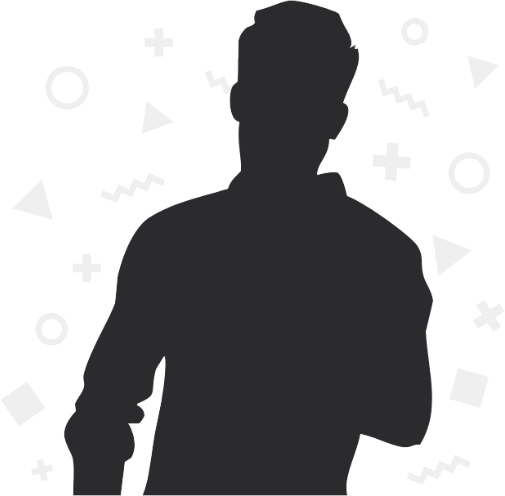
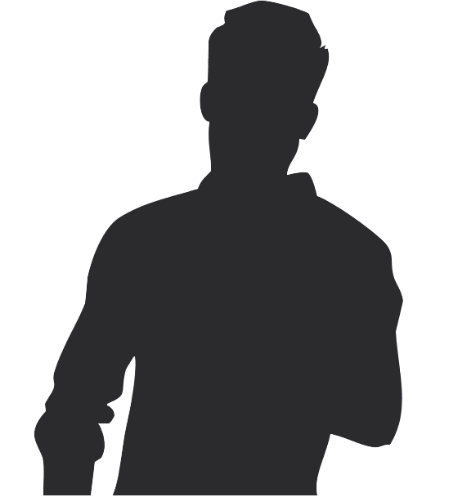
update intro

diff --git a/css/style.css b/css/style.css
@@ -104,6 +104,7 @@ h6 {
   padding-top: 100px;
   padding-bottom: 120px;
   position: relative;
+  background: url(../images/symbols.png) right bottom no-repeat;
 }
 .intro__content {
   width: 50%;
@@ -127,7 +128,7 @@ h6 {
 .intro__photo {
   position: absolute;
   right: 0;
-  top: 0;
+  bottom: 0;
   z-index: 1;
 }
 .social {
@@ -176,4 +177,4 @@ h6 {
   margin-left: 1rem;
 }
 
[2 lines of base64/hex data omitted]

diff --git a/css/blocks/nav.less b/css/blocks/nav.less
@@ -1,0 +1,55 @@
+// main: ../style.less
+
+.nav {
+    display: flex;
+    align-items: center;
+    height: 100%;
+}
+
+.nav__link {
+    margin-left: 2rem;
+    position: relative;
+
+    font-size: 0.93rem;
+    color: @black;
+    text-transform: uppercase;
+    font-weight: 700;
+    text-decoration: none;
+
+    &:after {
+        content: "";
+        width: 0;
+        height: 2px;
+        background-color: @black;
+
+        position: absolute;
+        bottom: -5px;
+        left: 0;
+        z-index: 1;
+
+        transition: width .2s linear;
+    }
+
+    &:hover:not(.nav__link--btn) {
+
+        &:after {
+            width: 100%;
+        }
+    }
+
+
+    /* Modificators */
+    &--btn {
+        padding: 0.66rem 2rem;
+
+        border: 2px solid @black;
+        border-radius: 20px;
+
+        transition: background-color .2s linear, color .2s linear;
+
+        &:hover {
+            background-color: @black;
+            color: @white;
+        }
+    }
+}

diff --git a/css/blocks/btn.less b/css/blocks/btn.less
@@ -1,0 +1,37 @@
+// main: ../style.less
+
+.btn {
+    display: inline-block;
+    vertical-align: top;
+    padding: 1.1rem 1.8rem;
+    min-width: 170px;
+
+    border: 1px solid @gray;
+    border-radius: 30px;
+    background: none;
+    cursor: pointer;
+
+    font-family: inherit;
+    font-size: 1.06rem;
+    line-height: 1.1;
+    color: @black;
+    text-transform: uppercase;
+    text-decoration: none;
+    text-align: center;
+
+    transition: background-color .2s linear, color .2s linear, box-shadow .2s linear;
+
+    &:focus {
+        outline: none;
+    }
+
+    &:hover {
+        background-color: @black;
+        box-shadow: 2px 2px 10px fade(#000, 24%);
+        color: @white;
+    }
+
+    + .btn {
+        margin-left: 1rem;
+    }
+}

diff --git a/css/blocks/intro.less b/css/blocks/intro.less
@@ -1,0 +1,43 @@
+// main: ../style.less
+
+.intro__inner {
+    display: flex;
+    padding-top: 100px;
+    padding-bottom: 120px;
+    position: relative;
+
+    background: url("../images/symbols.png") right bottom no-repeat;
+    border-bottom: 1px solid fade(@gray, 30%);
+}
+
+.intro__content {
+    width: 50%;
+}
+
+.intro__subtitle {
+    font-size: 2.13rem;
+    color: @black;
+    font-weight: 200;
+}
+
+.intro__title {
+    margin-bottom: 5px;
+
+    font-size: 3rem;
+    color: @black;
+    font-weight: 700;
+}
+
+.intro__text {
+    margin-bottom: 25px;
+
+    font-size: 1.2rem;
+    color: fade(@black, 70%);
+}
+
+.intro__photo {
+    position: absolute;
+    bottom: -1px;
+    right: 0;
+    z-index: 1;
+}

diff --git a/css/style.less b/css/style.less
@@ -1,0 +1,32 @@
+// compress: true
+@import "vars";
+
+html {
+   font-size: 15px;
+}
+
+body {
+    margin: 0;
+    font-family: 'Montserrat', sans-serif;
+    font-size: 1rem;
+    color: @black;
+}
+
+h1, h2, h3, h4, h5, h6 {
+    margin: 0;
+}
+
+*,
+*:before,
+*:after {
+    box-sizing: border-box;
+}
+
+/* Block */
+@import "blocks/container";
+@import "blocks/header";
+@import "blocks/user";
+@import "blocks/nav";
+@import "blocks/intro";
+@import "blocks/social";
+@import "blocks/btn";

diff --git a/css/blocks/user.less b/css/blocks/user.less
@@ -1,0 +1,32 @@
+// main: ../style.less
+
+.user {
+    display: flex;
+}
+
+.user__avatar {
+    width: 57px;
+    height: 57px;
+
+    img {
+        border-radius: 50%;
+    }
+}
+
+.user__content {
+    padding-left: 9px;
+}
+
+.user__name {
+    margin-bottom: 3px;
+
+    font-size: 1.06rem;
+    line-height: 1.2;
+    color: @black;
+    font-weight: 700;
+}
+
+.user__prof {
+    font-size: 0.8rem;
+    color: fade(@black, 70%);
+}

diff --git a/css/less/blocks/intro.less b/css/less/blocks/intro.less
@@ -6,7 +6,7 @@
 	padding-top: 100px;
 	padding-bottom: 120px;
 	position: relative;
-	// background: url("../images/photo.png") right top no-repeat;
+	background: url(../images/symbols.png) right bottom no-repeat;
 }
 .intro__content {
 	width: 50%;
@@ -30,6 +30,6 @@
 .intro__photo {
 	position: absolute;
 	right: 0;
-	top: 0;
+	bottom: 0;
 	z-index: 1;	
 }

diff --git a/index.html b/index.html
@@ -49,7 +49,7 @@
 					<a class="btn" href="#">HIRE ME</a>
 					<button class="btn" type="button">SEE MY RESUME</button>
 				</div>
-				<img src="images/photo.png" alt="" class="itro__photo">
+				<img src="images/photo.png" alt="" class="intro__photo">
 			</div>
 		</div>
 	</section>

diff --git a/css/blocks/social.less b/css/blocks/social.less
@@ -1,0 +1,17 @@
+// main: ../style.less
+
+.social {
+    display: flex;
+    margin-bottom: 42px;
+}
+
+.social__link {
+    margin-right: 10px;
+    text-decoration: none;
+
+    transition: transform .2s linear;
+
+    &:hover {
+        transform: translateY(-5px);
+    }
+}

diff --git a/css/blocks/header.less b/css/blocks/header.less
@@ -1,0 +1,11 @@
+// main: ../style.less
+
+.header {
+    padding: 1.2rem 0;
+}
+
+.header__inner {
+    display: flex;
+    justify-content: space-between;
+    align-items: center;
+}

diff --git a/css/blocks/container.less b/css/blocks/container.less
@@ -1,0 +1,9 @@
+// main: ../style.less
+
+.container {
+    width: 100%;
+    max-width: 1200px;
+    padding-left: 1rem;
+    padding-right: 1rem;
+    margin: 0 auto;
+}

diff --git a/css/vars.less b/css/vars.less
@@ -1,0 +1,6 @@
+// main: style.less
+
+@black: #2B2A2C;
+@gray: #6A696B;
+@gray-light: #8D8D8E;
+@white: #fff;
